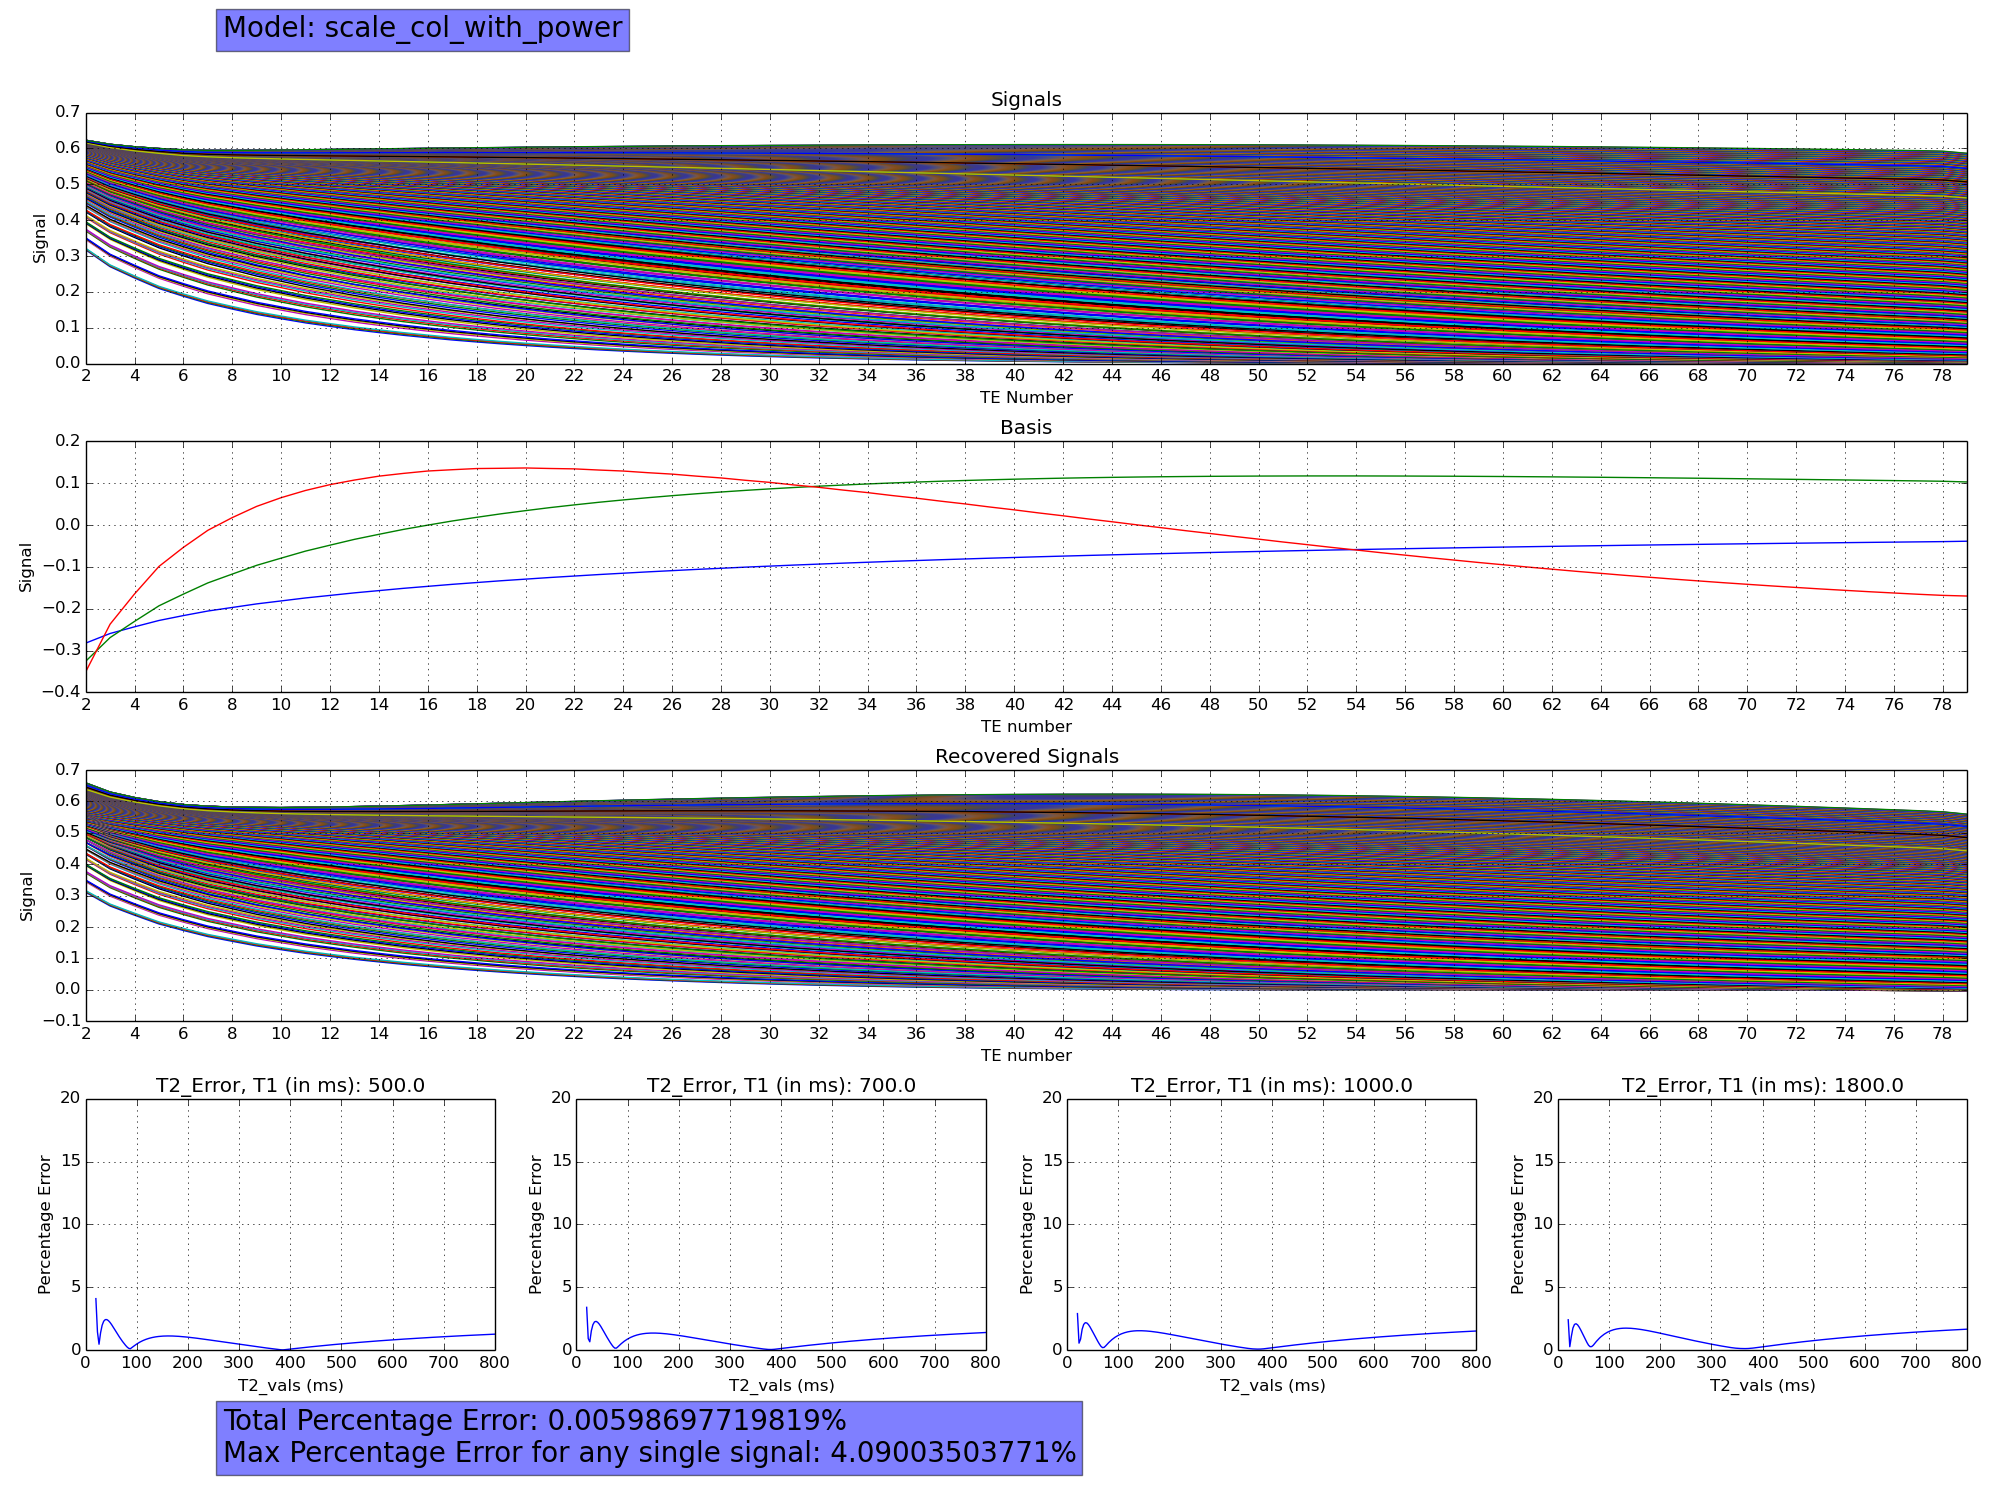
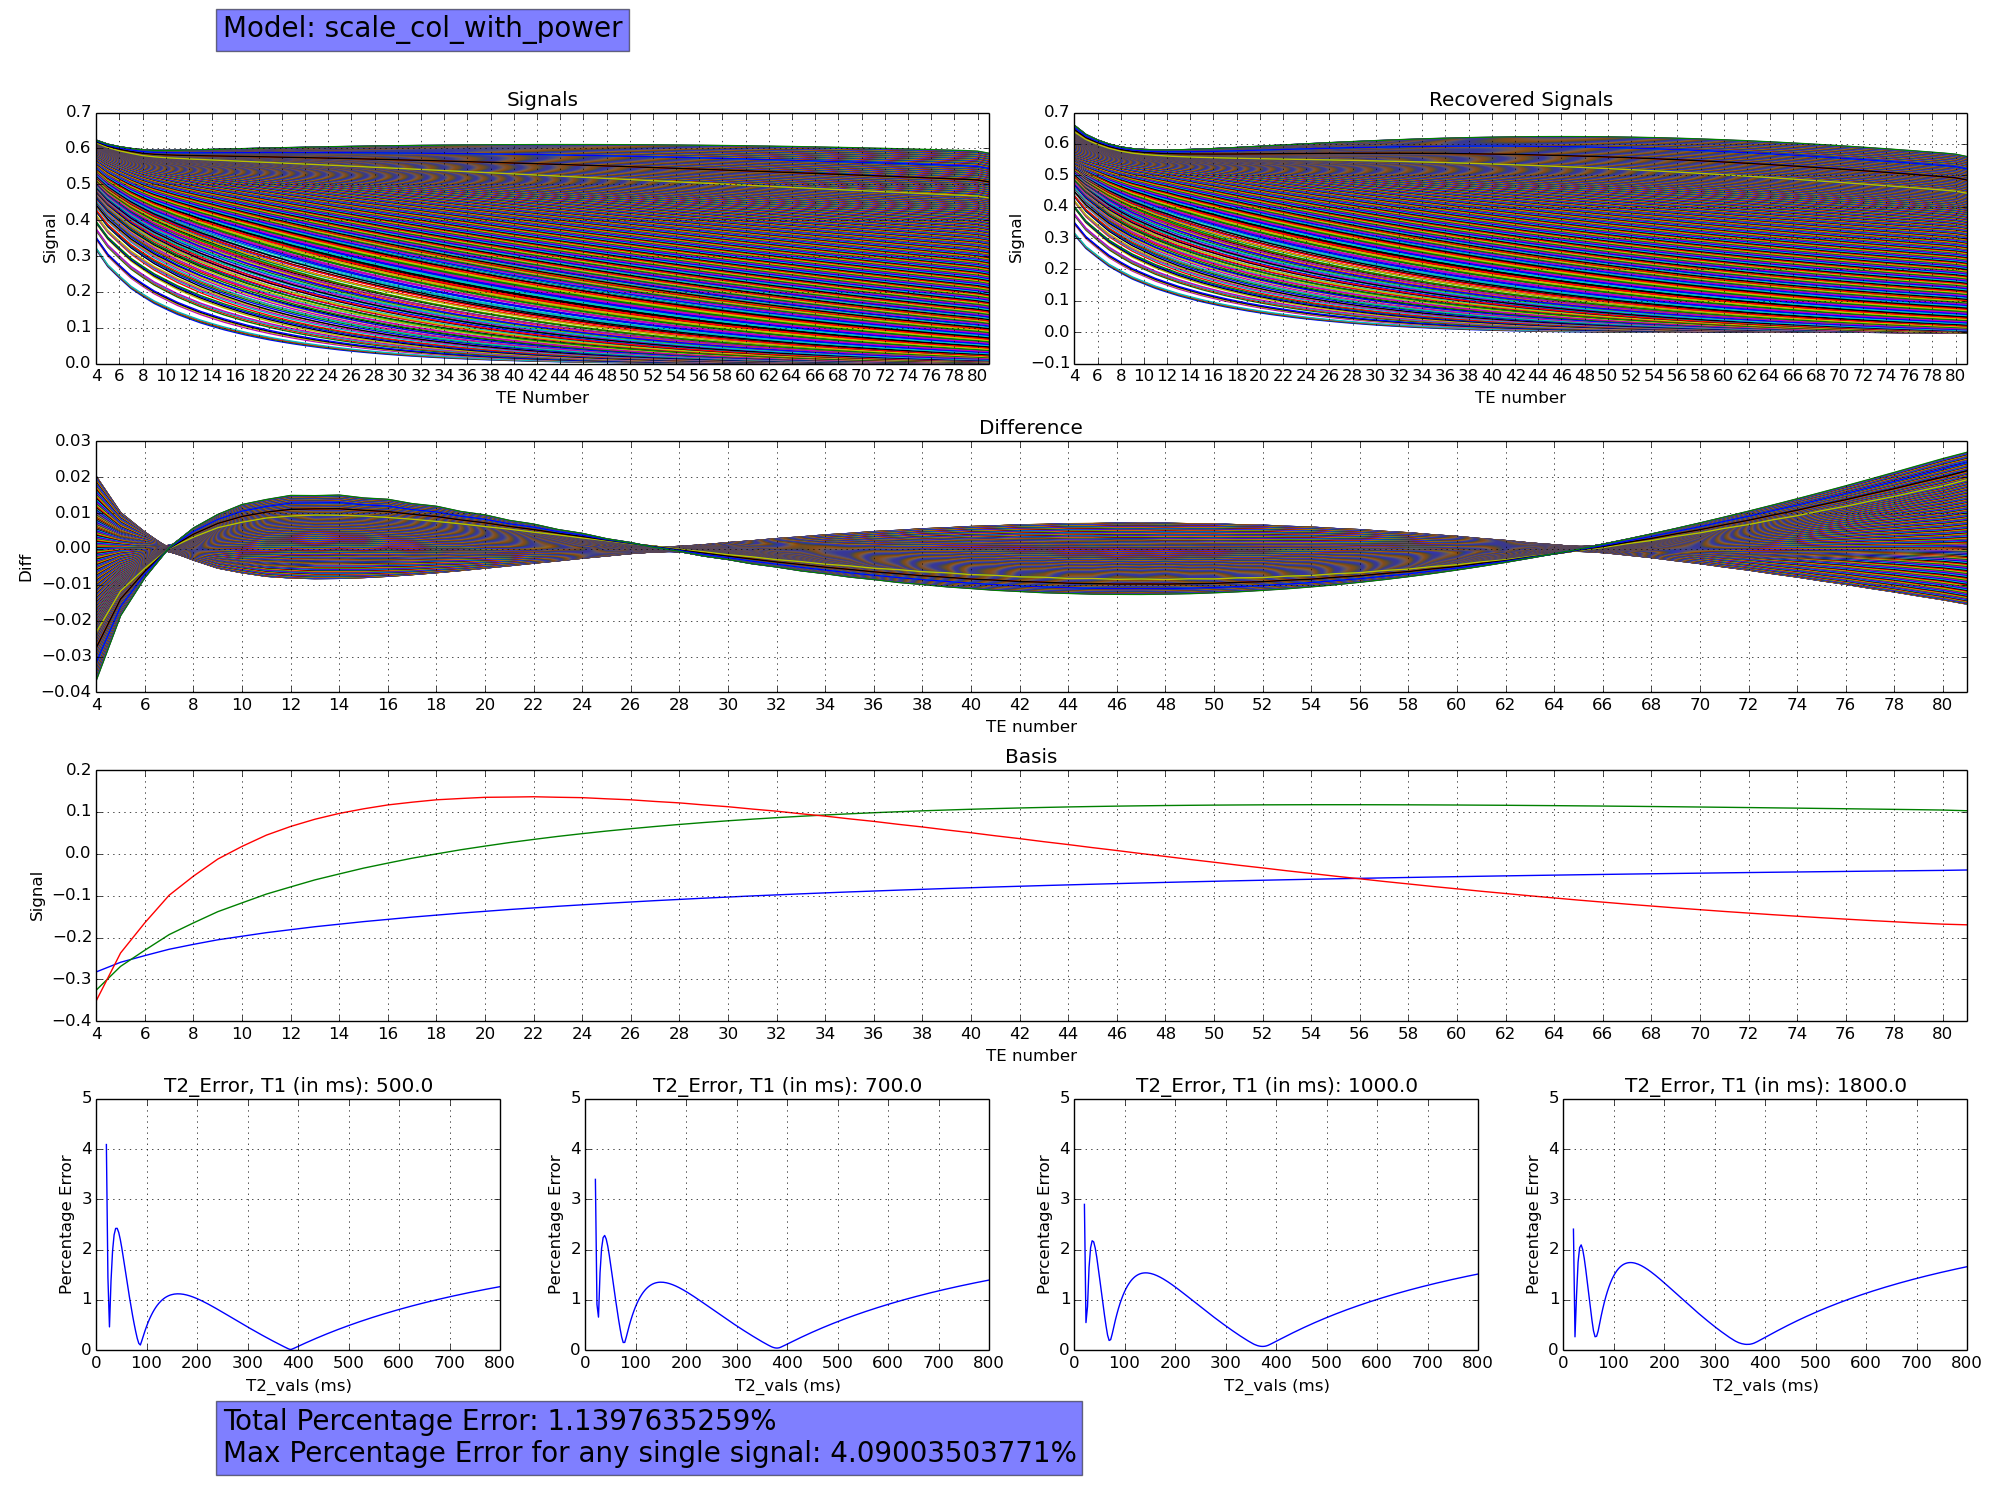
Fixed plotting for main

diff --git a/src/plot.py b/src/plot.py
@@ -1,0 +1,84 @@
+#!/usr/bin/env python
+
+
+from __future__ import division
+from matplotlib import gridspec
+from metrics    import get_metric
+
+
+import matplotlib.pyplot as plt
+import numpy as np
+import scipy.io as sio
+
+
+plots_path = "../plots/"
+img_size = (20, 15)
+
+
+def matrix_to_1Darray(matrix):
+  return np.array(matrix).reshape(matrix.size)
+
+
+def mksv_plot(ax, data, title, xlabel, ylabel, xstart=0, ylim=None, other_label=None):
+  if type(data) == np.matrixlib.defmatrix.matrix:
+    x_axis = np.arange(xstart, xstart + data.shape[0])
+    ax.set_xlim(xstart, xstart + data.shape[0] - 1)
+    ax.set_xticks(np.arange(xstart, xstart + data.shape[0], 2))
+    ax.plot(x_axis, data)
+    ax.grid()
+    ax.set_title(title)
+    ax.set_xlabel(xlabel)
+    ax.set_ylabel(ylabel)
+  elif type(data) == tuple:
+    assert len(data) >= 3 and type(ax == list)
+    x, t, y = [list(matrix_to_1Darray(elm)) for elm in data]
+    skip = len(t)
+    for i in range(skip):
+      ax[i].plot(x, y[i::skip])
+      ax[i].set_xlabel(xlabel)
+      ax[i].set_ylabel(ylabel)
+      ax[i].set_title(title + ", " + other_label + str(t[i]))
+      ax[i].grid()
+      if ylim:
+        ax[i].set_ylim(ylim)
+
+
+def plot_simulation(U, k, X, X_hat, model_name, T1vals, T2vals, e2s):
+  span = T1vals.size
+  pnorm, fro_perc_err = get_metric(X, X_hat, disp=False)
+  fig = plt.figure(figsize=img_size)
+  half = int(np.floor(span/2))
+  ax1 = plt.subplot2grid((4, span), (0,0), colspan=2)
+  ax2 = plt.subplot2grid((4, span), (0,half), colspan=half)
+  ax3 = plt.subplot2grid((4, span), (1,0), colspan=span)
+  ax4 = plt.subplot2grid((4, span), (2,0), colspan=span)
+  ax5 = [plt.subplot2grid((4, span), (3, i)) for i in range(span)]
+  mksv_plot(ax1, X, 'Signals', 'TE Number', 'Signal', xstart=e2s)
+  mksv_plot(ax2, X_hat, 'Recovered Signals', 'TE number', 'Signal', xstart=e2s)
+  mksv_plot(ax3, X-X_hat, 'Difference', 'TE number', 'Diff', xstart=e2s)
+  mksv_plot(ax4, U[:, :k], 'Basis', 'TE number', 'Signal', xstart=e2s)
+  mksv_plot(ax5, (T2vals * 1000, T1vals * 1000, pnorm), 'T2_Error', 'T2_vals (ms)', 'Percentage Error', other_label="T1 (in ms): ", ylim=[0,5])
+  fig.tight_layout()
+  plt.subplots_adjust(top=0.925, bottom=0.1)
+  fig.text(0.1115, 0.025, "Total Percentage Error: " + str(fro_perc_err) + \
+    "%\nMax Percentage Error for any single signal: " + str(max(pnorm)) + "%", bbox={'alpha':0.5, 'pad':10}, fontsize=20)
+  fig.text(0.1115, 1 - 0.025, "Model: " + model_name, fontsize=20, bbox={'alpha':0.5, 'pad':10})
+  fig.savefig(plots_path + model_name + '.png')
+
+def plot_cfl_signals(U, k, X, X_hat, e2s):
+  pnorm, fro_perc_err = get_metric(X, X_hat)
+  fig = plt.figure(figsize=img_size)
+  ax1 = plt.subplot2grid((4, span), (0,0), colspan=2)
+  ax2 = plt.subplot2grid((4, span), (0,half), colspan=half)
+  ax3 = plt.subplot2grid((4, span), (1,0), colspan=span)
+  ax4 = plt.subplot2grid((4, span), (2,0), colspan=span)
+  mksv_plot(ax1, X, 'Signals', 'TE Number', 'Signal', xstart=e2s)
+  mksv_plot(ax2, X_hat, 'Recovered Signals', 'TE number', 'Signal', xstart=e2s)
+  mksv_plot(ax3, X-X_hat, 'Difference', 'TE number', 'Diff', xstart=e2s)
+  mksv_plot(ax4, U[:, :k], 'Basis', 'TE number', 'Signal', xstart=e2s)
+  fig.tight_layout()
+  plt.subplots_adjust(top=0.925, bottom=0.1)
+  fig.text(0.1115, 0.025, "Total Percentage Error: " + str(fro_perc_err) + \
+    "%\nMax Percentage Error for any single signal: " + str(max(pnorm)) + "%", bbox={'alpha':0.5, 'pad':10}, fontsize=20)
+  fig.text(0.1115, 1 - 0.025, "Model: " + model_name, fontsize=20, bbox={'alpha':0.5, 'pad':10})
+  fig.savefig(plots_path + model_name + '.png')

diff --git a/src/main.py b/src/main.py
@@ -7,6 +7,7 @@ from os         import system
 from models     import models_dict
 from cfl        import readcfl, writecfl, cfl2sqcfl, sqcfl2mat, mat2sqcfl
 from metrics    import get_metric
+from plot       import plot_simulation, plot_cfl_signals
 
 
 import numpy as np
@@ -14,6 +15,8 @@ import scipy.io as sio
 
 
 load_FSEpath = "../data/FSEmatrix.mat"
+cfl_path = "../basis/"
+time_stamp = ""
 
 
 parser = OptionParser()
@@ -30,17 +33,19 @@ parser.add_option("--k", dest="k", type=int, default=None, help="Number of basis
 parser.add_option("--model", dest="model", type=str, default='all', help="The model you want to test")
 parser.add_option("--add_control", dest="add_control", action="store_true", default=False, help="Set this flag if you want to compare said model with svd")
 parser.add_option("--save_cfl", dest="save_cfl", action="store_true", default=False, help="Set this flag if you want to save cfl")
-#parser.add_option("--save_plots", dest="save_plots", action="store_true", default=False, help="Set this flag to save plots")
-#parser.add_option("--save_imgs", dest="save_imgs", action="store_true", default=False, help="Set this flag to save imgimgss")
-parser.add_option("--make_comparisson", dest="do_comp", action="store_true", default=False, help="Set this flag if you want to generate gifs")
+parser.add_option("--save_plots", dest="save_plots", action="store_true", default=False, help="Set this flag to save plots")
+parser.add_option("--save_imgs", dest="save_imgs", action="store_true", default=False, help="Set this flag to save imgimgss")
 
 
 options, args = parser.parse_args()
 
-cfl_path = "../basis/"
-time_stamp = ""
 
-assert options.cfl or options.angles, "Please pass in a cfl file OR an angles file."""
+assert (options.cfl or options.angles) and (options.cfl != options.angles), "Please pass in a cfl file XOR an angles file."""
+
+
+if options.save_imgs:
+  assert options.cfl, "In order to save images, a cfl file must be passed instead of values for a simulation."""
+
 
 if options.cfl:
 
@@ -83,17 +88,18 @@ else:
   else:
     X = gen_FSEmatrix(N, angles, ETL, e2s, TE, T1vals, T2vals)
     sio.savemat(data_path + "FSEmatrix", {"FSEmatrix": X})
-  # TODO: add image dimension
+
 
 lst = [options.model]
 if options.add_control:
-  lst.append['simple_svd']
+  lst.append('simple_svd')
 if options.model == 'all':
   lst = models.keys()
 results = {}
 for m in lst:
-  print "[--------------------------------------------------]"
+  print "------------------------------------------------------------"
   print "Running " + m
+  print "------------------------------------------------------------"
   model = models_dict[m]
   k = options.k
   U, alpha, X_hat = model(X, options.k)
@@ -101,11 +107,23 @@ for m in lst:
   pnorm, fro_perc_err = get_metric(X, X_hat)
   if not k:
     k = U.shape[1]
-  results[m] = {'U':U, 'alpha':alpha, 'k':k, 'Percentage Error per Signal': pnorm, 'Frobenius Percentage Error': fro_perc_err}
-  if options.do_comp:
-    # TODO
-    None
-  print "[--------------------------------------------------]"
+  results[m] = {'U':U, 'alpha':alpha, 'k':k, 'X_hat': X_hat, 'Percentage Error per Signal': pnorm, 'Frobenius Percentage Error': fro_perc_err}
+print "------------------------------------------------------------"
+
+
+if options.save_plots:
+  for m in lst:
+    mod = results[m]
+    if options.cfl:
+      plot_cfl_signals(mod['U'], options.k, X, mod['X_hat'], m, e2s)
+    else:
+      plot_simulation(mod['U'], options.k, X, mod['X_hat'], m, T1vals, T2vals, e2s)
+
+
+if options.save_imgs:
+  # TODO
+  None
+
 
 if options.save_cfl:
   for m in results.keys():

diff --git a/src/nn_simple.py b/src/nn_simple.py
@@ -14,6 +14,16 @@ class NN_simple:
       prev, curr = nodes_per_layer[i-1], nodes_per_layer[i]
       self.theta_lst.append(np.matrix(np.random.rand(curr, prev), dtype=np.complex64))
 
+  def load_theta(self, theta_path):
+    """ This assumes that theta list is saved as an npy file """
+    theta_lst = np.load(theta_path)
+    for i in range(len(theta_lst)):
+      self.theta_lst[i] = theta_lst[i]
+
+  def save_thata(self, path):
+    """ This saves the theta_lst as an npy """
+    np.save(path, np.array(self.theta_lst)) 
+
   def train(self, X, y, alpha=0.3, num_iter=100, verbose=False):
     c = [self.cost(X, y)]
     if verbose:
@@ -36,7 +46,7 @@ class NN_simple:
 
   def cost(self, X, y):
     h = self.get_activation_layers(X)[-1]
-    return np.linalg.norm(h - y, ord=2)**2
+    return np.linalg.norm(y - h, 'fro')/np.linalg.norm(y, 'fro') * 100
 
   def theta_gradients(self, X, y):
     activation_layers = self.get_activation_layers(X)

diff --git a/src/models.py b/src/models.py
@@ -115,10 +115,27 @@ models_dict["scale_col_with_power"] = scale_col_with_power
 
 
 def nn1(X, k=None):
-  nn = NN_simple([X.shape[0], 5, 3, X.shape[0]])
-  c = nn.train(X, X, num_iter=1000, alpha=0.000001, verbose=True)
+  if k is None:
+    k = 3
+  nn = NN_simple([X.shape[0], k, X.shape[0]])
+  
+  ##########################################
+
+  #nn.load_theta('../saves/nn1_theta.npy')
+
+  ##########################################
+
+  c = nn.train(X, X, num_iter=100000, alpha=1e-8, verbose=True)
+  nn.save_theta('../saves/nn1_theta.npy')
+
+  ##########################################
+
   a = nn.get_activation_layers(X)
-  return nn.theta_lst[-1], a[-2], a[-2] * nn.theta_lst[1]
+  import matplotlib.pyplot as plt
+  plt.figure()
+  plt.plot(c)
+  plt.show()
+  return nn.theta_lst[-1], a[-2], nn.theta_lst[-1] * a[-2]
 
 models_dict["nn1"] = nn1
 

diff --git a/src/metrics.py b/src/metrics.py
@@ -2,12 +2,13 @@ import numpy as np
 
 norm = np.linalg.norm
 
-def get_metric(X, Xhat):
+def get_metric(X, Xhat, disp=True):
   delta = X - Xhat
   snorm = norm(delta, ord=1, axis=0) #Norm per signal
-  fnorm = norm(delta, ord=1)         #Total norm
+  fnorm = norm(delta, 'fro')         #Total norm
   pnorm = (snorm/norm(X, ord=1, axis=0)) * 100 #Percentage Error
-  fro_perc_err = fnorm/norm(X) * 100
-  print "Maximum percentage error for any single signal: %f" % max(pnorm)
-  print "Total Percentage error: %f" % fro_perc_err
+  fro_perc_err = fnorm/norm(X, 'fro') * 100
+  if disp:
+    print "Maximum percentage error for any single signal: %f" % max(pnorm)
+    print "Total Percentage error: %f" % fro_perc_err
   return pnorm, fro_perc_err
